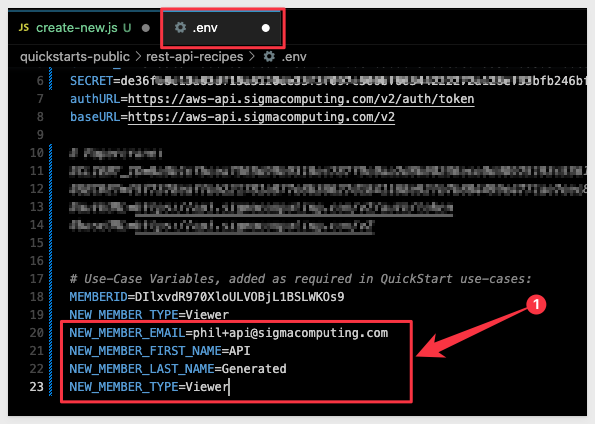
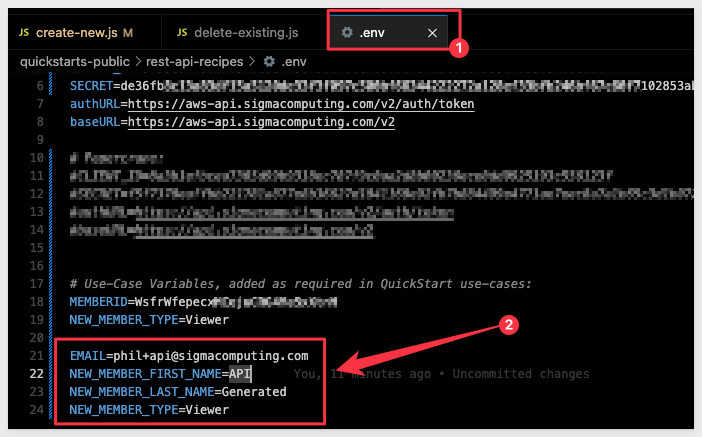
wip

Changed region(s): [[0.0, 0.0, 0.9983, 1.0], [0.7866, 0.8278, 0.8471, 0.8892]]

diff --git a/site/sigmaguides/src/administration_api_code_samples/administration_api_code_samples.md b/site/sigmaguides/src/administration_api_code_samples/administration_api_code_samples.md
@@ -380,17 +380,23 @@ This section demonstrates the code that was provided on the `API Code Samples` >
 ### Required Body Parameters
 Open the `.env` file and add the required parameters. You will need to provide different values as shown below:
 ```code
-NEW_MEMBER_EMAIL=someone@company.com
+EMAIL={your example email}
 NEW_MEMBER_FIRST_NAME=API
 NEW_MEMBER_LAST_NAME=Generated
 NEW_MEMBER_TYPE=Viewer
 ```
 
+<aside class="positive">
+<strong>IMPORTANT:</strong><br> For email, we use the value provided in "EMAIL" as a base address. The script is designed to make the address unique, automatically by leveraging the Gmail alias feature. In this way, we always are creating a new member while testing.<br>
+
+We recommend you use the UI to delete these members later, if desired. In a Sigma trial environment, this cleanup is not required.  
+</aside>
+
 <img src="assets/apics25.png" width="800"/>
 
 Save the changes.
 
-### Running the Script
+### Running the "create-new.js" script
 
 Open the file `create-new.js` in the `members` folder:
 
@@ -402,8 +408,51 @@ The expected response is:
 
 <img src="assets/apics26.png" width="800"/>
 
+Copy the `memberId` provided in the response. We will use that in the next step.
+
+Checking in the UI, we can see the new member has been added. This member does not have a `Workspace`, the rights to one, or rights to any data (Connections). We will do each of these in steps first. Then will will put it all together in a script we will call `Member: Onboarding"
+
+<img src="assets/apics27.png" width="800"/>
+
+### Running the "create-workspace.js" script
+
+Update `.env` with the `memmberId` we received in the `create-new` script response:
+
+<img src="assets/apics28.png" width="800"/>
+
+Open the file `create-workspace.js` in the `members` folder.
+
+Each code block is commented to explain what operations are being performed. 
+
+Press `F5` to run the script with VSCode's debugger. 
+
+The expected response is:
+
+<img src="assets/apics29.png" width="800"/>
+
+Checking in the Sigma UI we can see the new Workspace:
+
+<img src="assets/apics30.png" width="800"/>
 
 
+
+### Running the "create-workspace-permission.js" script
+
+Open the file `create-workspace-permission.js` in the `members` folder.
+
+Each code block is commented to explain what operations are being performed. 
+
+Press `F5` to run the script with VSCode's debugger. 
+
+The expected response is:
+
+<img src="assets/apics3.png" width="800"/>
+
+Checking in the Sigma UI we can check the Workspace sharing permissions:
+
+<img src="assets/apics3.png" width="800"/>
+
+STOPPED HERE. Need to create the script for this section and update screenshots.
 
 
 ![Footer](assets/sigma_footer.png)
